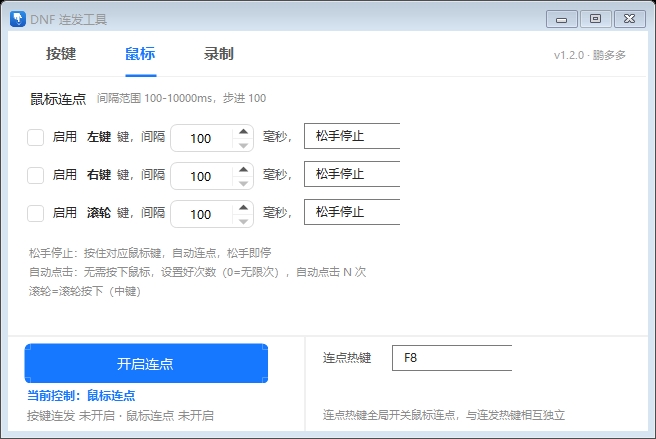
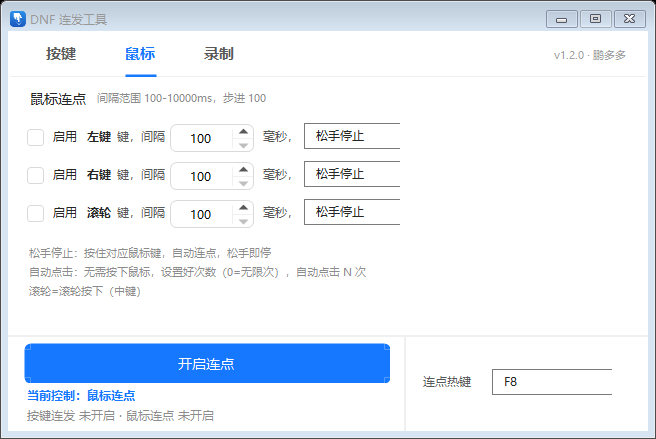
feat: 鼠标页去掉热键说明，底部分隔线右移 100px 给启动区
- 鼠标页设置卡不再显示「连点热键全局开关鼠标连点，与连发热键相互独立」：
  lblModeTip 只在按键页显示（Visible = !record && !mouse），鼠标页只剩一行热键，
  按 36/32 在 92 高的卡片里居中
- 底部左右不再各占一半：竖分隔线 296 → 396，pnlRun 294 → 394、pnlSet 340 → 240，
  主按钮 244 → 366（录制页两个按钮 114 → 175），右侧热键标签 14 / 下拉 86 不变、
  右侧仍留 34 余量，最长的模式说明文字不会裁切
- 三张文档截图重拍，CHANGELOG / PLAN §14 同步

diff --git a/MainForm.cs b/MainForm.cs
@@ -1049,16 +1049,17 @@ public class MainForm : Form
         pnlMain.Controls.Add(tabHeader);
         Controls.Add(pnlMain);
 
-        // 启动区（左下）：按键/鼠标页是一个主按钮；录制页换成「开始录制 / 开始回放」两个等宽按钮
-        var pnlRun = new Panel { Location = new Point(2, 306), Size = new Size(294, 92), BackColor = Color.White };
-        const int RunBtnW = 114;              // (244 - 间距 16) / 2，两个按钮均分同一块宽度
+        // 启动区（左下）：按键/鼠标页是一个主按钮；录制页换成「开始录制 / 开始回放」两个等宽按钮。
+        // 设置区（右下）内容不多，分隔线右移 100px：启动区 394、设置区 240，按钮能铺开、右侧也不空
+        var pnlRun = new Panel { Location = new Point(2, 306), Size = new Size(394, 92), BackColor = Color.White };
+        const int RunBtnW = 175;              // (366 - 间距 16) / 2，两个按钮均分同一块宽度
         const int RunBtnGap = 16;
         btnMain = new AntButton
         {
             Kind = AntButton.AntKind.Primary,
             Text = "开启连发",
             Location = new Point(14, 6),
-            Size = new Size(244, 40),
+            Size = new Size(366, 40),
             Font = new Font(AntStyle.FontName, 10f)
         };
         btnRecord = new AntButton
@@ -1104,8 +1105,9 @@ public class MainForm : Form
         Controls.Add(pnlRun);
 
         // 设置区（右下）：热键下拉框跟随当前 Tab——按键页编辑连发热键（默认 F6）、
-        // 鼠标页编辑连点热键（默认 F8）；两个热键同时全局生效
-        var pnlSet = new Panel { Location = new Point(298, 306), Size = new Size(340, 92), BackColor = Color.White };
+        // 鼠标页编辑连点热键（默认 F8）；两个热键同时全局生效。
+        // 分隔线右移后只剩 240 宽：标签 14 起、下拉 86 起 120 宽，右侧仍留 34 的余量给说明文字
+        var pnlSet = new Panel { Location = new Point(398, 306), Size = new Size(240, 92), BackColor = Color.White };
         lblHotkey = new Label { Text = "连发热键", Location = new Point(14, 12), AutoSize = true, ForeColor = AntStyle.TextSec };
         lblMode = new Label { Text = "连发模式", Location = new Point(14, 44), AutoSize = true, ForeColor = AntStyle.TextSec };
 
@@ -1166,8 +1168,8 @@ public class MainForm : Form
         using var line = new SolidBrush(AntStyle.Split);
         // 主区与底部两区之间的水平分隔（2px）
         g.FillRectangle(line, 0, 304, Width, 2);
-        // 启动区与设置区之间的垂直分隔（2px）
-        g.FillRectangle(line, 296, 304, 2, Height - 304);
+        // 启动区与设置区之间的垂直分隔（2px）：比原来右移 100，给左侧启动区更多空间
+        g.FillRectangle(line, 396, 304, 2, Height - 304);
     }
 
     private void AttachClearFocus(Control.ControlCollection controls)
@@ -1277,19 +1279,20 @@ public class MainForm : Form
         cboMode.Visible = !mouse && !record;
         cboPlayKey.Visible = record;
 
-        // 录制页没有第三行说明（热键用法已在页内），两行热键整体下移 8px 在卡片里上下居中
-        lblHotkey.Top = record ? 20 : 12;
-        cboStartKey.Top = record ? 16 : 8;
-        lblMode.Top = record ? 52 : 44;
-        cboMode.Top = record ? 48 : 40;
-        cboPlayKey.Top = record ? 48 : 40;
+        // 卡片内纵向排布：按键页保持原来位置（下面还有一行说明），录制页两行居中，
+        // 鼠标页只有一行也居中——都不带第三行小字
+        int topLabel = 12, topCtl = 8, midLabel = 44, midCtl = 40;
+        if (record) { topLabel = 20; topCtl = 16; midLabel = 52; midCtl = 48; }
+        else if (mouse) { topLabel = 36; topCtl = 32; }
+        lblHotkey.Top = topLabel;
+        cboStartKey.Top = topCtl;
+        lblMode.Top = midLabel;
+        cboMode.Top = midCtl;
+        cboPlayKey.Top = midCtl;
 
-        lblModeTip.Text = record
-            ? ""
-            : mouse
-                ? "连点热键全局开关鼠标连点，与连发热键相互独立"
-                : "";
-        lblModeTip.Visible = !record;
+        // 只有按键页在卡片底部带一行说明（跟着「保留原生 / 拦截原生」变）
+        lblModeTip.Visible = !record && !mouse;
+        lblModeTip.Text = "";
         if (!record && !mouse) ApplyKeyModeTip(); // 按键页：说明跟着「保留原生 / 拦截原生」走
     }
 

diff --git a/docs/PLAN-v1.2.0.md b/docs/PLAN-v1.2.0.md
@@ -688,7 +688,9 @@ MacroPlayer.Start(profile, repeatMode, value)
 | 旧字段 `PlayGapMs` → `PlayGapSec` | 合并前先跑 `MigrateLegacy`：文件里没有 `PlayGapSec` 但有 `PlayGapMs` 时换算成秒（`(ms+500)/1000`），日志留一条迁移记录 |
 | 自动点击次数框步进 | `Step` 1、默认 `1`、范围 `0–99999`（0 = 无限），数字框后补「次」单位；单位与次数框一起显隐（松手停止时都隐藏）。`Limits.MouseCountMax = 99999`，与按键连按（`Limits.KeyCountMax = 100000`）分开 |
 | 按键次数框与鼠标页对齐 | 按键行 `NumCount` 改成 `Step=1`、`Max=99999`（`Limits.KeyCountMax` 同步 100000 → 99999），框后加「次」`Label`（`RowControls.LblCount`），`ApplyKeyStopMode` 里与数值框一起显隐。行内控件按实测宽度顺排，间距统一 8px，控件沿用原尺寸（`TxtKey` 56 / `TxtMs` 84 / `SelStop` 96 / `NumCount` 72）；「次」紧跟次数框（x=512），`LnkDel` 不固定、跟着内容尾巴走：`ApplyKeyStopMode` 里 `Left = auto ? LblCount.Right + 6 : SelStop.Right + 8`（切停止条件时一起挪），两者互不重叠。最宽情形（auto + 删除）到 582，故整行需要 584 宽，装不进原来的 544，于是窗口 600 → 640、页面 596 → 636、`RowWidth` 544 → 584（高度不变） |
-| 录制页两个按钮并排 | 两个按钮放进左下角启动区 `pnlRun`（不另起一行）：`RunBtnW = (244 - 16) / 2 = 114`，`btnRecord` 在 (14,6)、`btnPlay` 在 (144,6)，与 `btnMain` 同一块 244×40 区域。`RefreshRunCard` 按 Tab 切换 `Visible`：录制页显示这两枚、隐藏 `btnMain`；其它页反之。按钮文案/可用性收进 `SyncRecordButtons()`，`UpdateRecordUi` 与切页都会调 |
+| 录制页两个按钮并排 | 两个按钮放进左下角启动区 `pnlRun`（不另起一行）：`RunBtnW = (366 - 16) / 2 = 175`，`btnRecord` 在 (14,6)、`btnPlay` 在 (205,6)，与 `btnMain` 同一块 366×40 区域。`RefreshRunCard` 按 Tab 切换 `Visible`：录制页显示这两枚、隐藏 `btnMain`；其它页反之。按钮文案/可用性收进 `SyncRecordButtons()`，`UpdateRecordUi` 与切页都会调 |
+| 底部分隔线右移 100 | 设置卡内容少、左侧启动区空：竖分隔线 296 → 396，`pnlRun` 294 → 394、`pnlSet` 340 → 240（x 298 → 398），`btnMain` 244 → 366。设置卡内标签仍在 14、下拉仍在 86（宽 120），右侧余量 34，最长的那句「拦截原生：拦下物理按键，只发模拟连发」约 209 宽仍完整显示 |
+| 鼠标页去掉热键说明 | 录制页与鼠标页都不再显示 `lblModeTip`（`Visible = !record && !mouse`，只在按键页显示并跟随「保留原生 / 拦截原生」）；鼠标页卡片只剩一行，`lblHotkey.Top = 36` / `cboStartKey.Top = 32` 在 92 高的卡片里居中（录制页两行为 20/52、16/48）|
 | 录制页标题统一 | 改用 `AddPageTitle(page, "鼠标录制回放", "最多 10 个方案，单次录制上限 10 分钟")`；列表容器放到 y=41（行内控件在行顶下 1px，首行内容顶部 42，与按键页「列表 40 + 行内 2」一致）；回放设置行 y=190，页底只留一行状态/提示 y=226 |
 | 录制页状态行复用 | `lblRecStatus` 挪到 y=226 当「状态/提示」两用：空闲显示 `RecordHint`（8pt 灰，内容缩到只剩「录制时主窗口收进托盘，右下角留状态条。」），录制中红字「● 录制中…」，回放中由 `PlayTimer_Tick` 写进度（蓝字）；原来 y=222 那条固定提示 `lblRecHint` 删掉，与空闲提示合并成一行。「共 N 个方案」「已选：方案X · 时长」文案与 `lblPlayInfo` / `DescribeSelection` 一并删除 |
 | 方案行改名框与时长 | 名称框固定 `200×28`（`MaxLength=15`），时长文字 `RecordProfile.Summary` 改为「总时长 12.4s」放在 x=234，删除按钮位置 = `234 + RowTextWidth(Summary) + 12`，紧跟时长不再拉到行尾 |

diff --git a/CHANGELOG.md b/CHANGELOG.md
@@ -37,6 +37,8 @@
 - 录制页顶部改为与按键/鼠标页同一套标题样式（10.5pt 标题 + 8pt 灰字「最多 10 个方案，单次录制上限 10 分钟」）；去掉「未录制 / 共 N 个方案 / 已选 / 未选方案」文案，页底那行空闲时显示操作提示、录制/回放时变成状态（录制中 / 回放第几次）
 - 录制页去掉两处热键说明：设置卡里「F9 录制、F10 回放，互不干扰…」整条不再显示，两行热键下移 8px 在卡片里上下居中；页底「F9 开始/结束录制，F10 开始/停止回放；间隔＝两轮之间的等待，0 为不等待。」与「录制时主窗口收进托盘…」合并成一行，回放设置行随之下移到 y=190、状态行 y=226
 - 录制页标题到内容的间距与按键页对齐：列表容器 38 → 41，首行内容顶部落在 42（按键页 40 + 行内 2）
+- 鼠标页去掉设置卡底部的「连点热键全局开关鼠标连点，与连发热键相互独立」，卡片里那行热键居中显示（录制页同样无第三行说明）
+- 底部分隔线右移 100px：启动区 294 → 394、设置区 340 → 240，主按钮 244 → 366（录制页两个按钮各 114 → 175），左右不再各占一半
 - 录制页回放行新增「间隔」数值框；「已选：方案X · 时长」文案去掉，不再占位
 - 回放间隔按**秒**填写（默认 1 秒，0–999999，步进 1），配置字段同步为 `PlayGapSec`；旧 `PlayGapMs` 读入时忽略并回落默认 1 秒
 - 连发模式选项改名为「保留原生 / 拦截原生」，说明文字随选中项切换；间隔范围说明挪到「按键配置」标题行，标题字号 +1
